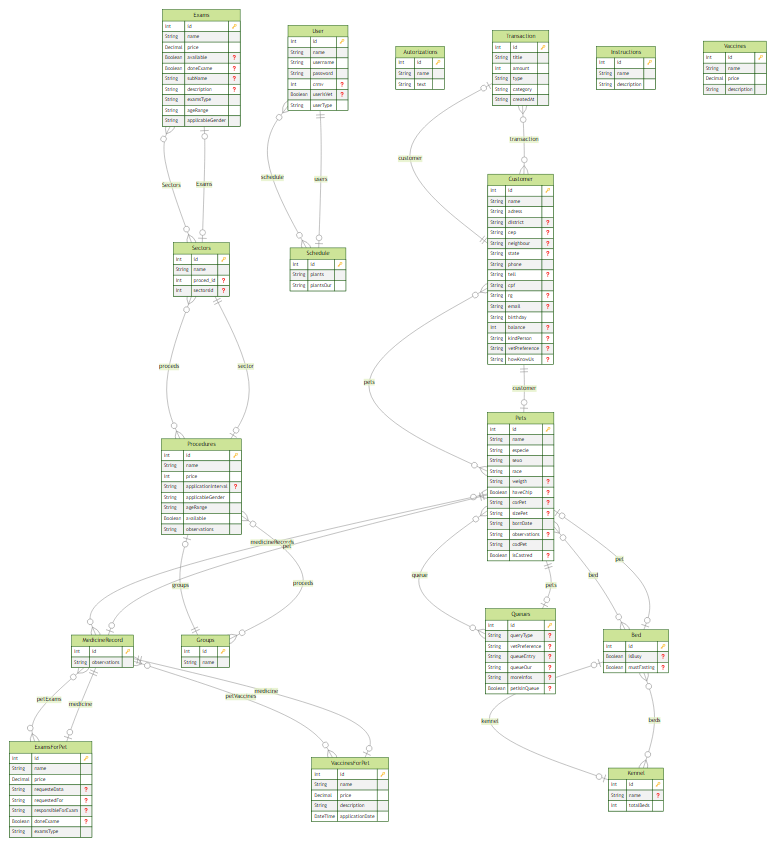
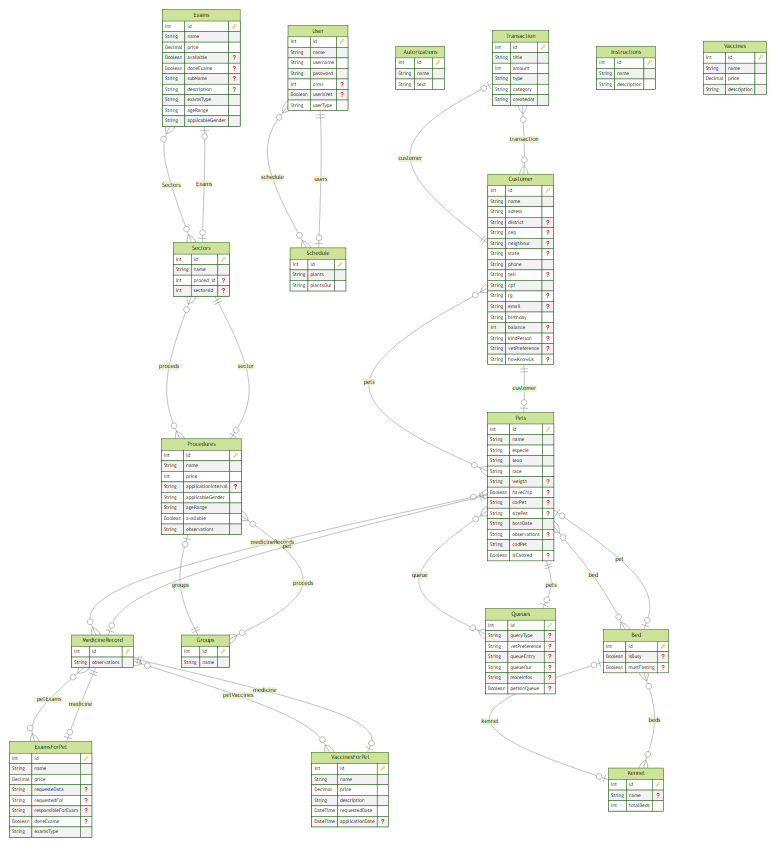
createVaccine with front

Changed region(s): [[0.398, 0.8505, 0.4898, 0.972], [0.2755, 0.7897, 0.3673, 0.8201]]

diff --git a/app/src/pages/AdminDashboard/vaccines.tsx b/app/src/pages/AdminDashboard/vaccines.tsx
@@ -9,30 +9,85 @@ import {
   Tbody,
   Td,
   FormControl,
-  Input,
   Box,
   Icon,
   Table,
   Text,
+  Textarea,
+  FormLabel,
 } from "@chakra-ui/react";
-import React from "react";
 import { RiAddLine, RiPencilLine } from "react-icons/ri";
 import { Paginaton } from "../../components/admin/Pagination";
-import { LoadingSpinner } from "../../components/Loading";
 import { AdminContainer } from "./style";
 import { Sidebar } from "../../components/admin/Sidebar";
 import { Header } from "../../components/admin/Header";
 import { GenericModal } from "../../components/Modal/GenericModal";
-import { useState } from "react";
+import { useEffect, useState } from "react";
+import { FieldValues, SubmitHandler, useForm } from "react-hook-form";
+import { api } from "../../lib/axios";
+import { toast } from "react-toastify";
+import { Input } from "../../components/admin/Input";
+
+
+interface VaccinesProps {
+  id: number | string;
+  name: string;
+  price: number;
+  description: string;
+}
 
 export default function AdminVaccines() {
-  const [isModalOpenTwo, setIsModalOpenTwo] = useState(false);
-  function openModalTwo() {
-    setIsModalOpenTwo(true);
+  const [isModalOpen, setIsModalOpen] = useState(false);
+  const { register, handleSubmit } = useForm();
+  const [vaccines, setVaccines] = useState<VaccinesProps[]>([])
+  const [reloadData, setReloadData] = useState(false);
+  const handleCreateVaccine: SubmitHandler<FieldValues> = async (values) => {
+    try {
+      const data = {
+        name: values.name,
+        price: Number(values.price),
+        description: values.description
+      };
+      await api.post("vaccines", data);
+      setReloadData(true);
+      toast.success("Vacina criada com sucesso");
+    } catch (error) {
+      toast.error("Falha ao criar nova Vacina");
+      console.log(error);
+    }
+  }; 
+  async function GetVaccine() {
+    try {
+     const response = await api.get("/vaccines")
+     
+      setVaccines(response.data)
+    } catch (error) {
+      console.log(error)
+    }
   }
-  function closeModalTwo() {
-    setIsModalOpenTwo(false);
+
+ 
+  useEffect(() => {
+    GetVaccine()
+   }, [])
+
+
+   useEffect(() => {
+    if (reloadData === true) {
+      GetVaccine() 
+      setReloadData(false); // Reseta o estado para evitar chamadas infinitas
+    }
+  }, [reloadData])
+
+   console.log("TESTE CHAMADAS API", vaccines) 
+
+  function openModal() {
+    setIsModalOpen(true);
   }
+  function closeModal() {
+    setIsModalOpen(false);
+  }
+
   return (
     <ChakraProvider>
       <AdminContainer>
@@ -59,7 +114,7 @@ export default function AdminVaccines() {
                   py="8"
                   colorScheme="whatsapp"
                   leftIcon={<Icon as={RiAddLine} />}
-                  //onClick={() => openModal()}
+                  onClick={() => openModal()}
                 >
                   Cadastrar nova Vacina
                 </Button>
@@ -80,134 +135,75 @@ export default function AdminVaccines() {
                 </Thead>
 
                 <Tbody>
-                  {/*sectors ? (
-                    sectors.map((sector) => (
-                      <Tr key={sector.id}>
-                        <Td borderColor="black">
-                          <Text fontWeight="bold" color="gray.800">
-                            {sector.name}
-                          </Text>
-                        </Td>
-                        <Td borderColor="black">{sector.id}</Td>
 
-                        <Td borderColor="black">
-                          <Flex gap="2" ml="50%">
-                            <Button
-                              as="a"
-                              size="md"
-                              fontSize="md"
-                              colorScheme="yellow"
-                              leftIcon={<Icon as={RiPencilLine} />}
-                              onClick={() => openModalTwo()}
-                            >
-                              Editar setor
-                            </Button>
-                            <Button
-                              as="a"
-                              size="md"
-                              fontSize="md"
-                              colorScheme="red"
-                              leftIcon={<Icon as={RiPencilLine} />}
-                              onClick={() => handleDeleteSector(sector.id)}
-                            >
-                              Deletar Setor
-                            </Button>
-                          </Flex>
-                        </Td>
-                      </Tr>
+                  {
+                    vaccines.map((vaccine) => (
+                      <Tr key={vaccine.id}>
+                      <Td borderColor="black">
+                        <Text fontWeight="bold" color="gray.800">
+                          {vaccine.name}
+                        </Text>
+                      </Td>
+                      <Td borderColor="black"></Td>
+                      <Td borderColor="black">R${vaccine.price}</Td>
+  
+                      <Td borderColor="black">
+                        <Flex gap="2" ml="50%">
+                          <Button
+                           alignItems="center" 
+                            as="a"
+                            size="md"
+                            fontSize="md"
+                            colorScheme="yellow"
+                            width={220}
+                            leftIcon={<Icon size={28} as={RiPencilLine} />}
+                            onClick={() => openModal()}
+                          >
+                            Editar Vacina
+                          </Button>
+                          <Button
+                            width={220}
+                            as="a"
+                            size="md"
+                            fontSize="md"
+                            colorScheme="red"
+                            leftIcon={<Icon as={RiPencilLine} />}
+                            //onClick={() => handleDeleteSector(sector.id)}
+                          >
+                            Deletar Vacina
+                          </Button>
+                        </Flex>
+                      </Td>
+                    </Tr>
                     ))
-                  ) : (
-                    <LoadingSpinner />
-                  )*/}
-                  <Tr key={0}>
-                    <Td borderColor="black">
-                      <Text fontWeight="bold" color="gray.800">
-                        Anti Rabica
-                      </Text>
-                    </Td>
-                    <Td borderColor="black"></Td>
-                    <Td borderColor="black">R$60,00</Td>
-
-                    <Td borderColor="black">
-                      <Flex gap="2" ml="50%">
-                        <Button
-                          as="a"
-                          size="md"
-                          fontSize="md"
-                          colorScheme="yellow"
-                          leftIcon={<Icon as={RiPencilLine} />}
-                          onClick={() => openModalTwo()}
-                        >
-                          Editar Vacina
-                        </Button>
-                        <Button
-                          as="a"
-                          size="md"
-                          fontSize="md"
-                          colorScheme="red"
-                          leftIcon={<Icon as={RiPencilLine} />}
-                          //onClick={() => handleDeleteSector(sector.id)}
-                        >
-                          Deletar Vacina
-                        </Button>
-                      </Flex>
-                    </Td>
-                  </Tr>
+                  }
+          
                 </Tbody>
               </Table>
-              <GenericModal /*isOpen={isModalOpen} onRequestClose={closeModal}*/
-              >
-                <FormControl
-                  as="form"
-                  //onSubmit={handleSubmit(handleCreateSector)}
-                  display="flex"
-                  flexDir="column"
-                  alignItems="center"
-                >
-                  <Input
-                    ///{...register("name")}
-                    name="name"
-                    label="Nome do Setor"
-                    mb="4"
-                  />
+              <GenericModal isOpen={isModalOpen} onRequestClose={closeModal}
+              >   
+              <FormControl as="form" onSubmit={handleSubmit(handleCreateVaccine)}>
 
-                  <Button w="100%" type="submit" colorScheme="green" m="2">
-                    Cadastrar
-                  </Button>
-                </FormControl>
+                <Flex direction="column" m="4" gap="4" align="center" width="480px" height="680px">
+                <Input {...register("name")} name="name" label="Nome da Vacina: " />
+              <Input {...register("price")} name="price" label="Preço da Vacina: " />
+
+
+                   <FormLabel htmlFor="description">Descrição da Vacina: </FormLabel>
+                  <Textarea borderColor="gray.900" height="500px" {...register("description")} name="description"  />
+
+
+
+                  <Button type="submit" colorScheme="whatsapp">CADASTRAR</Button>
+                </Flex>
+      
+             
+              </FormControl>
+                
+          
               </GenericModal>
 
-              <GenericModal
-                isOpen={isModalOpenTwo}
-                onRequestClose={closeModalTwo}
-              >
-                <FormControl
-                  as="form"
-                  //onSubmit={handleSubmit(handleEditSector)}
-                  display="flex"
-                  flexDir="column"
-                  alignItems="center"
-                >
-                  <Text>Editar Vacina</Text>
-                  <Input
-                    //{...register("name")}
-                    name="name"
-                    label="Nome do Setor"
-                    mb="4"
-                  />
-                  <Text>Editar Preço</Text>
-                  <Input
-                    //{...register("id")}
-                    name="id"
-                    label="Id do setor"
-                    mb="4"
-                  />
-
-                  <Button w="100%" type="submit" colorScheme="yellow" m="2">
-                    Editar Vacina
-                  </Button>
-                </FormControl>
-              </GenericModal>
+   
 
               <Paginaton />
             </Box>

diff --git a/server/src/controllers/vaccinesController.ts b/server/src/controllers/vaccinesController.ts
@@ -44,14 +44,14 @@ export const vaccinesController = {
     setVaccineInPet: async (request: FastifyRequest<{Params: params}>, reply: FastifyReply) => {
         const { id, recordId} = request.params
         const vaccine = await prisma.vaccines.findUnique({where: {id: parseInt(id)}})
-        const applicationDate = getFormattedDateTime()
+        const requestedDate = getFormattedDateTime()
         if(!vaccine) {
             reply.status(400).send("Falha ao buscar vacina/Falha ao criar vacina")
             return
         }
         try {
             await prisma.vaccinesForPet.create({
-                data: {name: vaccine?.name, price: vaccine?.price, description: vaccine?.description, applicationDate, medicine: {connect: { id: parseInt(recordId)}}}
+                data: {name: vaccine?.name, price: vaccine?.price, description: vaccine?.description, requestedDate, medicine: {connect: { id: parseInt(recordId)}}}
             })
 
             reply.status(201).send("Vacina adicionada ao PET")

diff --git a/server/src/controllers/petsController.ts b/server/src/controllers/petsController.ts
@@ -58,6 +58,7 @@ getWithId: async (request: FastifyRequest, reply: FastifyReply) => {
         let vacineData = {
           id: vaccine.id,
           name: vaccine.name,
+          requestedDate: vaccine.requestedDate,
           applicableDate: vaccine.applicationDate
         }
         return vacineData

diff --git a/app/src/pages/Vets/menu.tsx b/app/src/pages/Vets/menu.tsx
@@ -183,8 +183,6 @@ export function MenuVet() {
 
       break;
   }
-
-  console.log("DATA RESPONSE", dataCustomer);
   return (
     <ChakraProvider>
       <AdminContainer>
